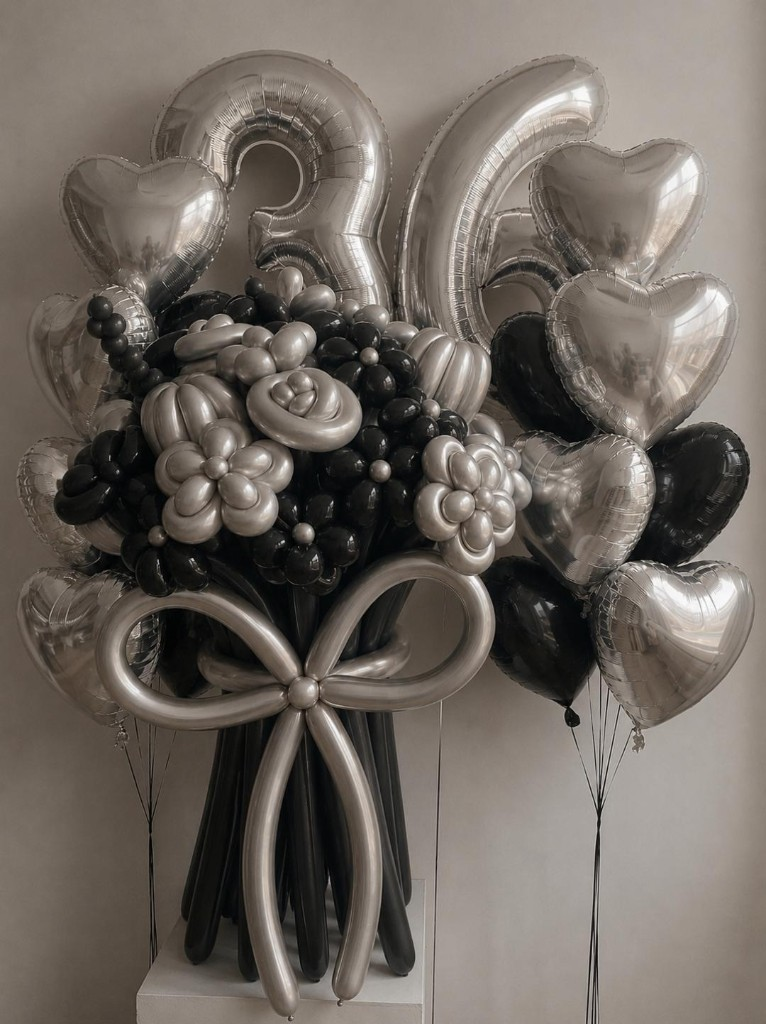
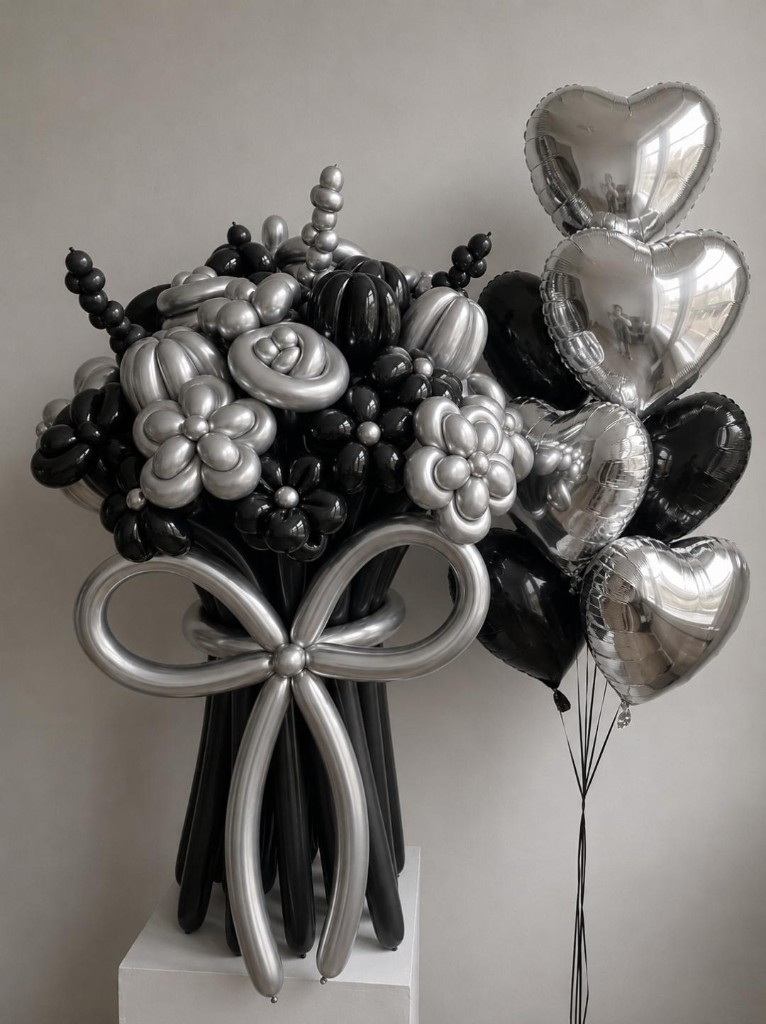
Use single photo for Black Tie product.

diff --git a/src/data/site.ts b/src/data/site.ts
@@ -380,11 +380,6 @@ export const BOUQUETS: Bouquet[] = [
 
     image: "/images/bouquets/black-tie.png",
 
-    images: [
-      "/images/bouquets/black-tie.png",
-      "/images/bouquets/black-tie-2.png",
-    ],
-
   },
 
 ];